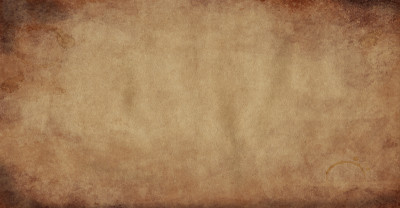
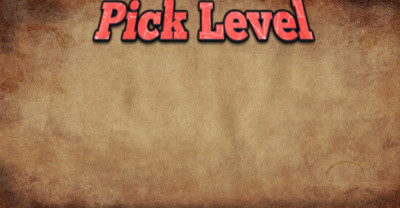
fixes in levelpicker

Changed region(s): [[0.21, 0.0, 0.81, 0.2308]]

diff --git a/core/src/com/mygdx/game/Units/Player.java b/core/src/com/mygdx/game/Units/Player.java
@@ -35,36 +35,14 @@ import static com.mygdx.game.Screens.PlayScreen.SOUND_PLAYERDIEING;
 import static com.mygdx.game.Screens.PlayScreen.SOUND_PLAYERHURT;
 import static com.mygdx.game.Screens.PlayScreen.SOUND_SWORDSWING;
 import static com.mygdx.game.Screens.PlayScreen.SOUND_WALK;
+import static com.mygdx.game.Screens.PlayScreen.TEXTURE_DEADPLAYER;
+import static com.mygdx.game.Screens.PlayScreen.TEXTURE_MINITOUR4STANCES;
 import static com.mygdx.game.Screens.PlayScreen.TEXTURE_PLAYERHURT;
 
 
 public class Player extends Sprite {
 
-
-
-    public void attack() {
-
-        if (getState() != State.ATTACKING) {
-            stateTimer = 0;
-            //swinging= true;
-            attackStance();
-            currentState = State.ATTACKING;
-        }
-    }
-
-    public void collectItem(Items itemCollected) {
-        if (itemCollected instanceof Coin){
-            Hud.addScore(1000);
-        }
-    }
-
-    public void chopThatTree() {
-        screen.setDialog(4);
-        currentState = State.WINNING ;
-    }
-
     public enum State {RUNNING, JUMPING , IDLE, FALLING, ATTACKING, DIEING, HURT, WINNING}
-
 
     public Body b2body;
     private World world;
@@ -84,9 +62,9 @@ public class Player extends Sprite {
     private final int pSize = 96;
 
     private PlayScreen screen;
-    private Texture texture;
-    private Texture dead;
-    private Texture hurtP;
+   // private Texture texture;
+   // private Texture dead;
+
 
     private Body sword;
     private Fixture swordfixture;
@@ -106,10 +84,8 @@ public class Player extends Sprite {
         setToDestroy = false;
         destroyed = false;
 
-        hurtP = new Texture(TEXTURE_PLAYERHURT);
-
-       this.texture = texture;
-       this.dead = dead;
+      // this.texture = texture;
+      // this.dead = dead;
        initialiseAnimations();
 
         setBounds(0,0,50/PPM,50/PPM);
@@ -119,59 +95,52 @@ public class Player extends Sprite {
     private void initialiseAnimations() {
         Array<TextureRegion> frames = new Array<TextureRegion>();
         for (int i = 0; i < 4; i++) {
-            frames.add(new TextureRegion(getTexture(),i*pSize,0,pSize,pSize));
+            frames.add(new TextureRegion((Texture)screen.getManager().get(TEXTURE_MINITOUR4STANCES),i*pSize,0,pSize,pSize));
         }
         playerIdle = new Animation(0.1f,frames);
         frames.clear();
 
         for (int i = 0; i < 8; i++) {
-            frames.add(new TextureRegion(getTexture(),i*pSize,pSize*1,pSize,pSize));
+            frames.add(new TextureRegion((Texture)screen.getManager().get(TEXTURE_MINITOUR4STANCES),i*pSize,pSize*1,pSize,pSize));
         }
         playerRun = new Animation(0.1f,frames);
         frames.clear();
         for (int i = 0; i < 7; i++) {
-            frames.add(new TextureRegion(getTexture(),i*pSize,pSize*2,pSize,pSize));
+            frames.add(new TextureRegion((Texture)screen.getManager().get(TEXTURE_MINITOUR4STANCES),i*pSize,pSize*2,pSize,pSize));
         }
         playerAttack = new Animation(0.1f,frames);
         frames.clear();
 
         for (int i = 0; i < 6; i++) {
-            frames.add(new TextureRegion(getTexture(),i*pSize,pSize*3,pSize,pSize));
+            frames.add(new TextureRegion((Texture)screen.getManager().get(TEXTURE_MINITOUR4STANCES),i*pSize,pSize*3,pSize,pSize));
         }
         playerJump = new Animation(0.1f,frames);
         frames.clear();
 
         for (int i = 0; i < 1; i++) {
-            frames.add(new TextureRegion(hurtP,i*96,0,96,96));
+            frames.add(new TextureRegion((Texture)screen.getManager().get(TEXTURE_PLAYERHURT),i*96,0,96,96));
         }
         playerHurt = new Animation(1f,frames);
         frames.clear();
 
         for (int i = 0; i < 5; i++) {
-            frames.add(new TextureRegion(dead,i*96,0,96,96));
+            frames.add(new TextureRegion((Texture)screen.getManager().get(TEXTURE_DEADPLAYER),i*96,0,96,96));
         }
         playerDieing = new Animation(0.2f,frames);
         frames.clear();
-    }
-
-    @Override
-    public Texture getTexture() {
-        return texture;
     }
 
     private boolean playingWalk;
     public void update(float dt) {
         if (getState() == State.ATTACKING && stateTimer > 0.5f){
             destroySword();
-            //swinging = false;
             currentState = State.IDLE;
         }
-
+        Sound s = screen.getManager().get(SOUND_WALK);
         if (currentState != State.DIEING) {
-            Sound s = screen.getManager().get(SOUND_WALK);
             if (currentState == State.RUNNING && !playingWalk) {
                 playingWalk = true;
-                long id = s.play(0.3f);
+                long id = s.play(0.8f);
                 s.setLooping(id,true);
             } else if (currentState != State.RUNNING) {
                 s.stop();
@@ -181,8 +150,10 @@ public class Player extends Sprite {
             setPosition(b2body.getPosition().x - getWidth() / 2, b2body.getPosition().y - getHeight() / 2);
             setRegion(getFrame(dt));
         } else{
-            if (!destroyed)
+            if (!destroyed){
                 world.destroyBody(b2body);
+                s.stop();
+            }
             destroyed = true;
             setRegion(getFrame(dt));
 
@@ -281,8 +252,6 @@ public class Player extends Sprite {
         shape.dispose();
     }
 
-
-
     // create sword box2d sensor.
     private void createBodySwordSwingArea(){
         BodyDef bdef2word = new BodyDef();
@@ -308,11 +277,9 @@ public class Player extends Sprite {
         }
     }
 
-    //private boolean swinging;
-
     private void attackStance(){
         Sound getHurt = screen.getManager().get(SOUND_SWORDSWING);
-        getHurt.play(0.1f);
+        getHurt.play(0.3f);
         createBodySwordSwingArea();
         stateTimer = 0;
     }
@@ -339,5 +306,25 @@ public class Player extends Sprite {
         }
     }
 
+    public void attack() {
+
+        if (getState() != State.ATTACKING) {
+            stateTimer = 0;
+            //swinging= true;
+            attackStance();
+            currentState = State.ATTACKING;
+        }
+    }
+
+    public void collectItem(Items itemCollected) {
+        if (itemCollected instanceof Coin){
+            Hud.addScore(1000);
+        }
+    }
+
+    public void chopThatTree() {
+        screen.setDialog(4);
+        currentState = State.WINNING ;
+    }
 
 }

diff --git a/core/src/com/mygdx/game/Screens/LevelPickerScreen.java b/core/src/com/mygdx/game/Screens/LevelPickerScreen.java
@@ -7,6 +7,7 @@ import com.badlogic.gdx.graphics.Color;
 import com.badlogic.gdx.graphics.GL20;
 import com.badlogic.gdx.graphics.OrthographicCamera;
 import com.badlogic.gdx.graphics.Texture;
+import com.badlogic.gdx.graphics.g2d.BitmapFont;
 import com.badlogic.gdx.graphics.g2d.Sprite;
 import com.badlogic.gdx.graphics.g2d.TextureRegion;
 import com.badlogic.gdx.scenes.scene2d.InputEvent;
@@ -49,10 +50,6 @@ public class LevelPickerScreen implements Screen {
     public void create () {
 
         background = game.getManager().get(TEXTURE_LEVELPICKERBACKGROUND);
-       // TextureRegion region = new TextureRegion(background, 0, 0, 2048, 1238);
-
-
-
 
         cam = new OrthographicCamera(ForestChopper.V_WIDTH,ForestChopper.V_HEIGHT);
         viewport = new FitViewport(ForestChopper.V_WIDTH*2,ForestChopper.V_HEIGHT*2, cam);
@@ -73,8 +70,12 @@ public class LevelPickerScreen implements Screen {
         scroll.setFlingTime(0.1f);
         scroll.setPageSpacing(20);
         int c = 1;
-        for (int l = 0; l < 10; l++) {
+        for (int l = 0; l < 2; l++) {
             Table levels = new Table().pad(50);
+           // Label lvlPicklabel = new Label("Pick Level", new Label.LabelStyle(new BitmapFont(), Color.WHITE));
+           // lvlPicklabel.setFontScale(4f);
+           // levels.add(lvlPicklabel);
+            levels.row();
             levels.defaults().pad(20, 40, 20, 40);
             for (int y = 0; y < 3; y++) {
                 levels.row();
@@ -85,6 +86,7 @@ public class LevelPickerScreen implements Screen {
             scroll.addPage(levels);
         }
         container.add(scroll).expand().fill();
+
     }
 
     public void render () {
@@ -100,12 +102,15 @@ public class LevelPickerScreen implements Screen {
 
     @Override
     public void render(float delta) {
+        Gdx.gl.glClearColor(0,0,0,1);
         Gdx.gl.glClear(GL20.GL_COLOR_BUFFER_BIT);
-        stage.act(Gdx.graphics.getDeltaTime());
-        stage.getBatch().begin();
-        stage.getBatch().draw(background,0,0,Gdx.graphics.getWidth(),Gdx.graphics.getHeight());
-        stage.getBatch().end();
 
+
+        game.batch.begin();
+        game.batch.draw(background,0,0,ForestChopper.V_WIDTH,ForestChopper.V_HEIGHT);
+        game.batch.end();
+
+        stage.act(Gdx.graphics.getDeltaTime());
         stage.draw();
     }
 
@@ -193,7 +198,8 @@ public class LevelPickerScreen implements Screen {
                 game.setScreen(new PlayScreen((ForestChopper) game,"tile/level2.tmx"));
             else if(event.getListenerActor().getName().equals("Level3"))
                 game.setScreen(new PlayScreen((ForestChopper) game,"tile/lvl3.tmx"));
-
+            else
+                game.setScreen(new PlayScreen((ForestChopper) game,"tile/lvl3.tmx"));
             dispose();
             // TODO start picked level
         }

diff --git a/core/src/com/mygdx/game/Screens/PlayScreen.java b/core/src/com/mygdx/game/Screens/PlayScreen.java
@@ -217,7 +217,7 @@ public class PlayScreen implements Screen{
 
         update(delta);
         tileRenderer.render();
-        b2dr.render(world,gamecam.combined);
+        //b2dr.render(world,gamecam.combined);
 
         game.batch.setProjectionMatrix(gamecam.combined);
         game.batch.begin();
@@ -379,6 +379,8 @@ public class PlayScreen implements Screen{
 
     private void handleKeyboardInputs() {
         if (Gdx.input.isKeyJustPressed(Input.Keys.UP)){
+            Sound s = manager.get(SOUND_JUMP);
+            s.play();
             player.b2body.applyLinearImpulse(new Vector2(0,4f),player.b2body.getWorldCenter(),true);
         }
 

diff --git a/core/src/com/mygdx/game/ForestChopper.java b/core/src/com/mygdx/game/ForestChopper.java
@@ -43,13 +43,14 @@ public class ForestChopper extends Game {
 	// scaleing of Box2d Stuff. from 1 pixel = 1 meter. to 1 pixel = 1cm
 	public static final float PPM = 100;
 
-	public static final short ENEMYWALLS_BIT = 128;
+
 	public static final short PLAYER_BIT = 2;
 	public static final short GROUND_BIT = 4;
 	public static final short ITEM_BIT = 8;
 	public static final short ENEMY_BIT = 16;
 	public static final short WALL_BIT = 32;
 	public static final short OBJECT_BIT = 64;
+    public static final short ENEMYWALLS_BIT = 128;
 	public static final short PLAYERSWORD_BIT = 256;
     public static final short ENDTREE_BIT = 512;
 

diff --git a/core/src/com/mygdx/game/Screens/HighScoreScreen.java b/core/src/com/mygdx/game/Screens/HighScoreScreen.java
@@ -65,20 +65,9 @@ public class HighScoreScreen implements Screen,  Input.TextInputListener{
 
         Table table = doTable();
         Prefferences.savePreffs(highScores);
-        /*
-        table.add(firstScore).expandX();
-        table.add().expandX();
-        table.add(firstScorepoints).expandX();
-        table.row();
-        table.add(secondScore).expandX();
-        table.add().expandX();
-        table.add(secondScorepoints).expandX();
-*/
 
         stage.addActor(table);
 
-
-       // stage.addActor(tablescore);
     }
     Label.LabelStyle font = new Label.LabelStyle(new BitmapFont(), Color.WHITE);
 

diff --git a/core/src/com/mygdx/game/ColorFilter.java b/core/src/com/mygdx/game/ColorFilter.java
@@ -34,8 +34,7 @@ public class ColorFilter
             generate(pixmap, Color.WHITE, (int) 255, 255, 255, (int) (Math.random() * 255), (int) (Math.random() * 255), (int) (Math.random() * 255), 127);
         }
 
-        /**
-         *
+        /**         *
          * @param pixmap
          * @param colorBase
          * @param colorPercentRed
